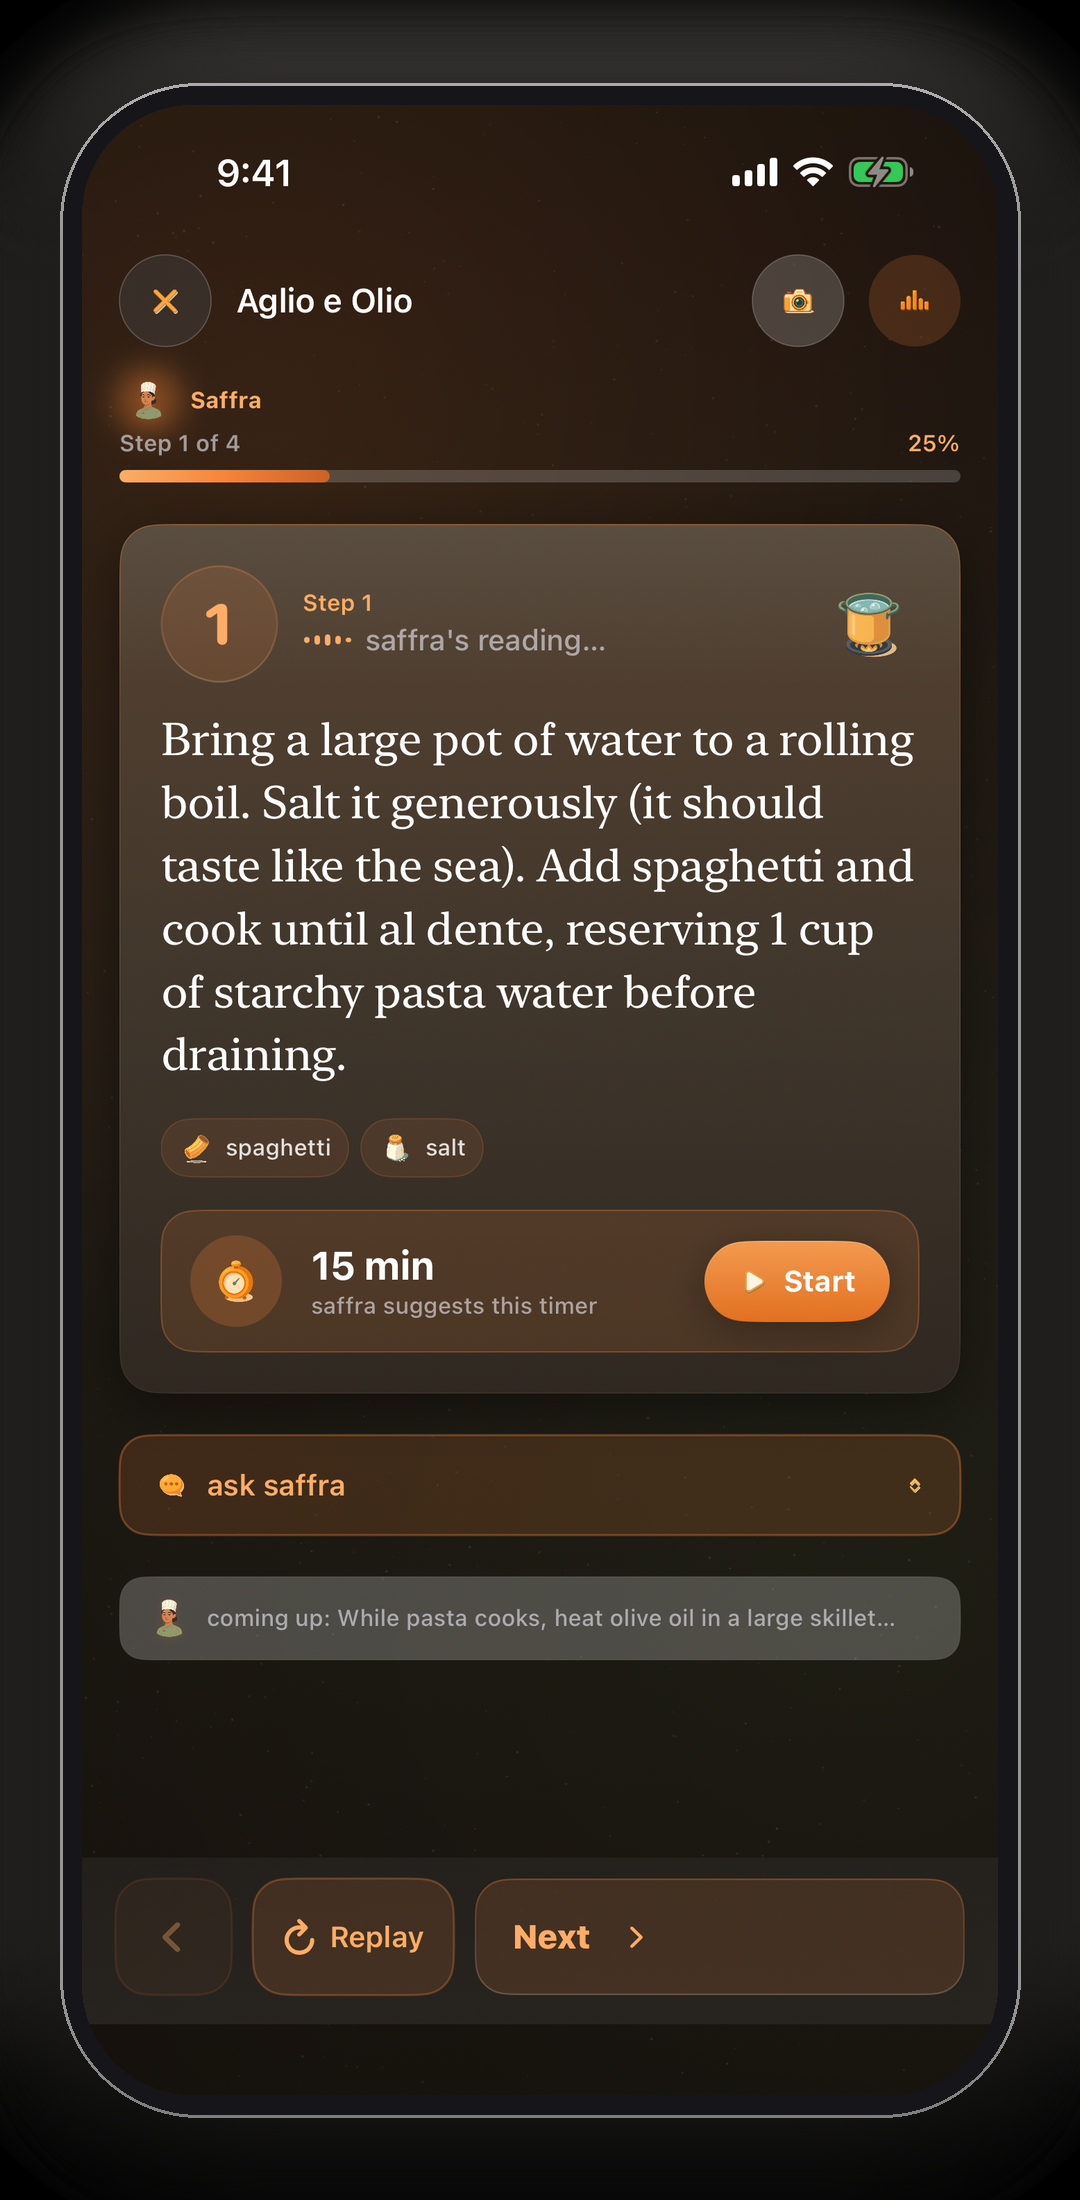
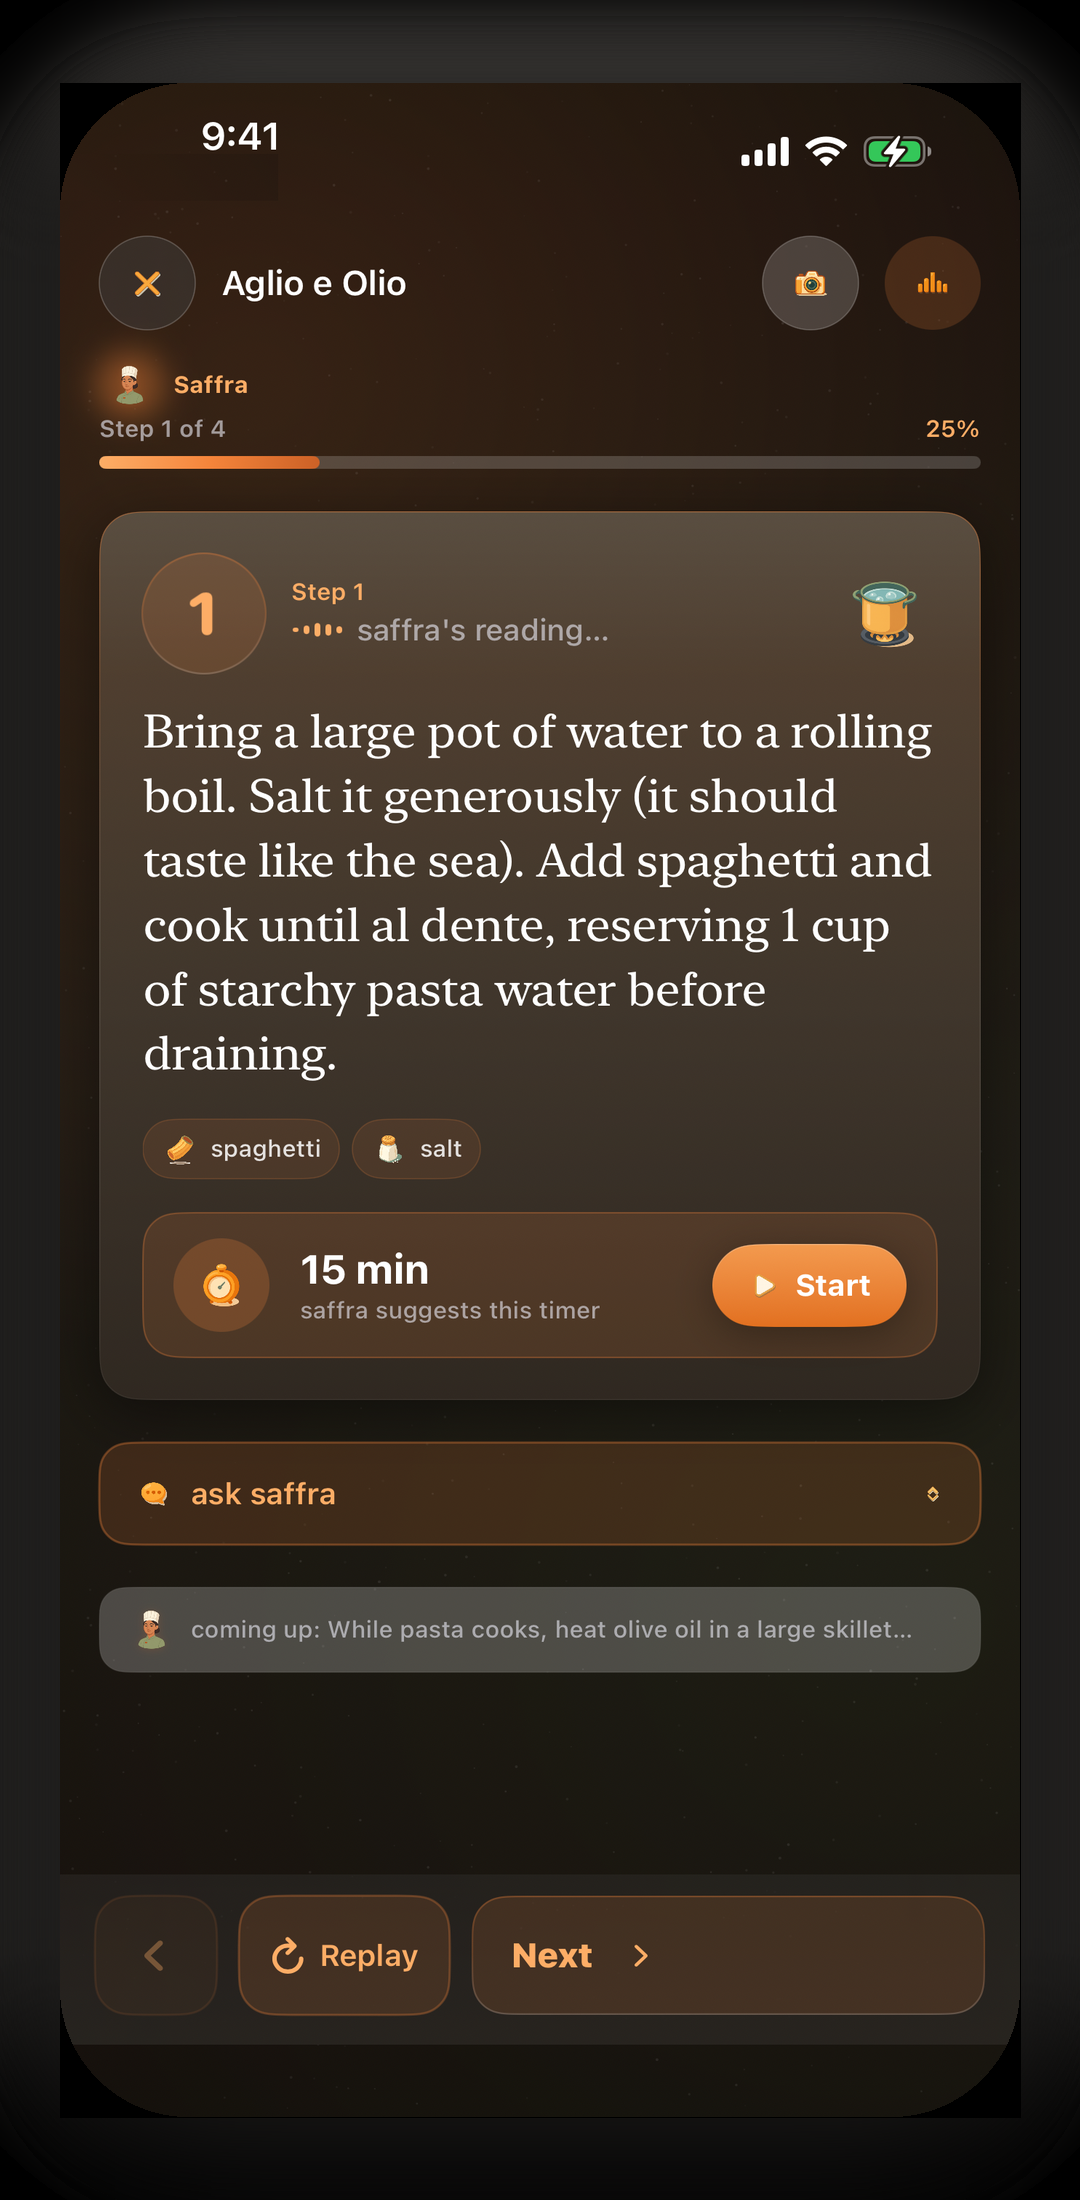
Add hero carousel, AI chat screenshot, recipes and search screenshots

diff --git a/index.html b/index.html
@@ -441,18 +441,18 @@
       animation: breathe 1.6s ease-in-out infinite;
     }
 
-    @keyframes crossfade {
-      0%, 42% { opacity: 1; }
-      50%, 92% { opacity: 0; }
-      100% { opacity: 1; }
+    /* Hero rotator — stacked screenshots cross-fading on a timer (JS-driven,
+       see #heroRotator below). The first image is position:relative so it
+       defines the box height; the rest overlay it absolutely and fade in when
+       they receive .is-active. */
+    .hero-phone-frame .hero-phone-img {
+      position: absolute; top: 0; left: 0; width: 100%; height: auto;
+      opacity: 0; transition: opacity 0.9s ease-in-out;
     }
-    .hero-phone-img.phone-back {
-      position: absolute; top: 0; left: 0; width: 100%; height: 100%;
-      object-fit: contain;
-    }
-    .hero-phone-img.phone-front {
-      position: relative; z-index: 1;
-      animation: crossfade 10s ease-in-out infinite;
+    .hero-phone-frame .hero-phone-img:first-child { position: relative; }
+    .hero-phone-frame .hero-phone-img.is-active { opacity: 1; }
+    @media (prefers-reduced-motion: reduce) {
+      .hero-phone-frame .hero-phone-img { transition: none; }
     }
 
     /* Stats */
@@ -534,7 +534,7 @@
 
     /* "Take a look inside" gallery — real screenshots of the app's main surfaces */
     .gallery-grid {
-      display: grid; grid-template-columns: repeat(4, 1fr); gap: 18px;
+      display: grid; grid-template-columns: repeat(5, 1fr); gap: 18px;
       margin-top: 48px;
       align-items: end;
     }
@@ -845,15 +845,24 @@
       </div>
       <div class="hero-screenshot">
         <div class="hero-phone-wrap">
-          <div class="hero-phone-frame">
-            <!-- Back layer: Cooking Mode (revealed during crossfade) -->
-            <img class="hero-phone-img phone-back"
-                 src="screenshots/02-cooking-mode.png"
-                 alt="Saffra Cooking Mode — hands-free voice with Live Activity timer">
-            <!-- Front layer: Chef tab (default visible state) -->
-            <img class="hero-phone-img phone-front"
+          <!-- Hero rotator: cross-fades through the app's signature surfaces.
+               Order tells the story — greet, ask, browse, search, cook. -->
+          <div class="hero-phone-frame" id="heroRotator">
+            <img class="hero-phone-img is-active"
                  src="screenshots/01-chef-tab.png"
                  alt="Saffra Chef tab — pantry-aware quick-start prompts">
+            <img class="hero-phone-img"
+                 src="screenshots/07-chat-recipe.png"
+                 alt="Ask Saffra — she answers with a recipe pulled from the catalog">
+            <img class="hero-phone-img"
+                 src="screenshots/05-recipes.png"
+                 alt="Recipes — a panel-vetted catalog with Saffra's daily pick">
+            <img class="hero-phone-img"
+                 src="screenshots/06-search.png"
+                 alt="Search — semantic recipe search across the whole catalog">
+            <img class="hero-phone-img"
+                 src="screenshots/02-cooking-mode.png"
+                 alt="Cooking Mode — hands-free voice with a Live Activity timer">
           </div>
         </div>
       </div>
@@ -921,7 +930,7 @@
     <div style="text-align:center" class="anim">
       <span class="section-label">Inside the App</span>
       <h2 class="section-title">Take a look <span class="gradient-text-warm">inside.</span></h2>
-      <p class="section-desc" style="margin:14px auto 0">Four screens, one chef. Built for the way you actually cook — pantry-aware, hands-free, recipe-grounded.</p>
+      <p class="section-desc" style="margin:14px auto 0">Five screens, one chef. Built for the way you actually cook — pantry-aware, hands-free, recipe-grounded.</p>
     </div>
     <div class="gallery-grid">
       <div class="gallery-card anim anim-d1">
@@ -933,19 +942,26 @@
       </div>
       <div class="gallery-card anim anim-d2">
         <div class="shot-wrap">
+          <img class="shot" src="screenshots/07-chat-recipe.png" alt="Ask Saffra — she checks your pantry, then answers with a real recipe from the catalog you can open or cook">
+        </div>
+        <h4>Ask Saffra</h4>
+        <p>She checks your pantry, then answers with a real recipe from the catalog — tap to open it or start cooking.</p>
+      </div>
+      <div class="gallery-card anim anim-d3">
+        <div class="shot-wrap">
           <img class="shot" src="screenshots/04-chat-tool.png" alt="Recipe detail — pantry-aware ingredients, at-a-glance timing, and one tap into Cooking Mode">
         </div>
         <h4>Every recipe adapts</h4>
         <p>Pantry-aware ingredients, at-a-glance timing, diet tags — then one tap into hands-free Cooking Mode.</p>
       </div>
-      <div class="gallery-card anim anim-d3">
+      <div class="gallery-card anim anim-d4">
         <div class="shot-wrap">
           <img class="shot" src="screenshots/02-cooking-mode.png" alt="Cooking Mode with Live Activity timer in the Dynamic Island and the hey saffra wake phrase pill">
         </div>
         <h4>Cooking Mode</h4>
         <p>Hands-free narration. Voice timers in the Dynamic Island. "Hey saffra, next step."</p>
       </div>
-      <div class="gallery-card anim anim-d4">
+      <div class="gallery-card anim anim-d5">
         <div class="shot-wrap">
           <img class="shot" src="screenshots/03-pantry.png" alt="Pantry view with categories, expiring items badged for use-it-up suggestions">
         </div>
@@ -1279,6 +1295,21 @@
     });
   }, { threshold: 0.1, rootMargin: '0px 0px -40px 0px' });
   document.querySelectorAll('.anim').forEach(function(el) { observer.observe(el); });
+
+  // Hero phone rotator — cross-fade through the signature screens on a timer.
+  (function() {
+    var rot = document.getElementById('heroRotator');
+    if (!rot) return;
+    var shots = rot.querySelectorAll('.hero-phone-img');
+    if (shots.length < 2) return;
+    if (window.matchMedia && window.matchMedia('(prefers-reduced-motion: reduce)').matches) return;
+    var i = 0;
+    setInterval(function() {
+      shots[i].classList.remove('is-active');
+      i = (i + 1) % shots.length;
+      shots[i].classList.add('is-active');
+    }, 3200);
+  })();
 
   // Scroll to top button
   var scrollBtn = document.getElementById('scrollTop');